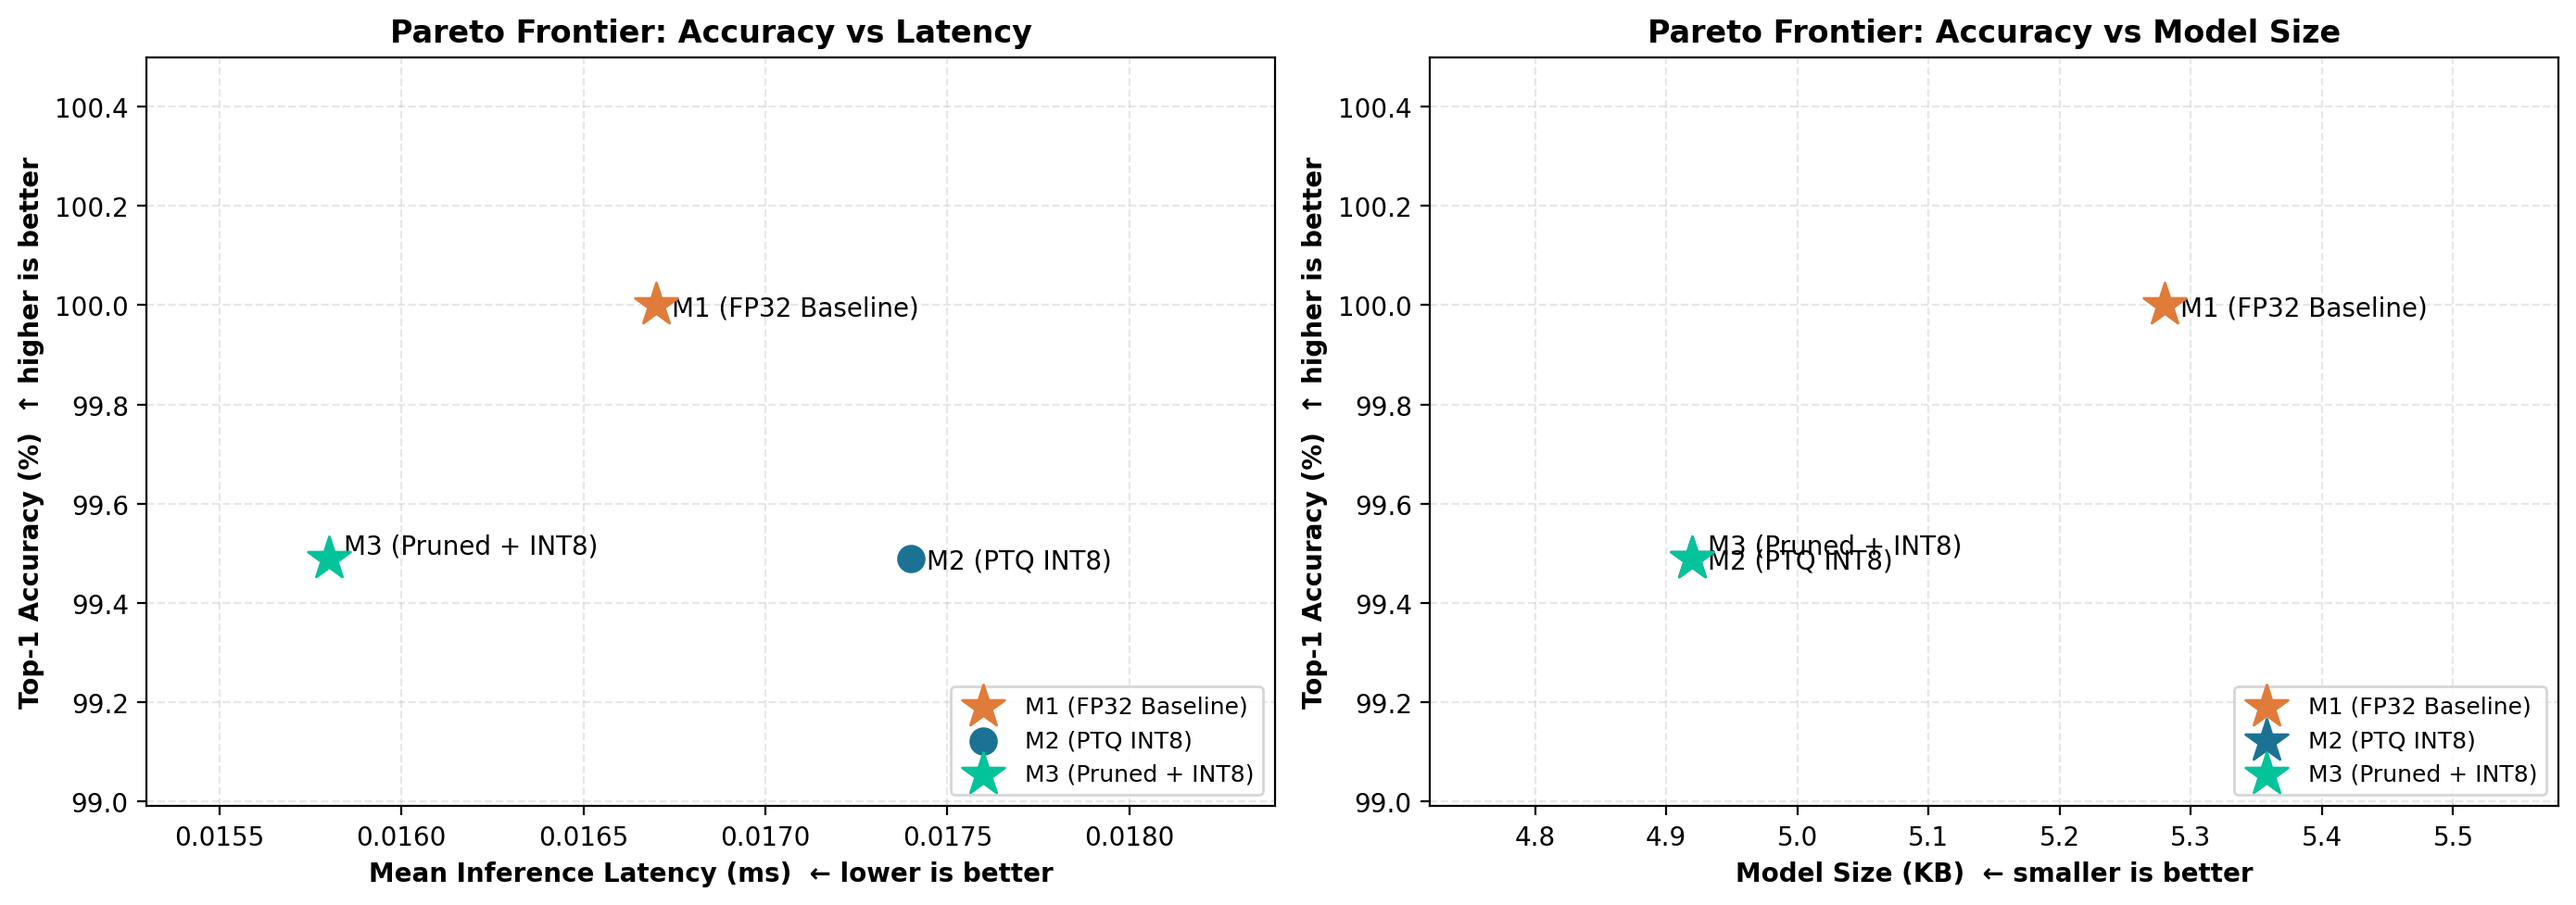
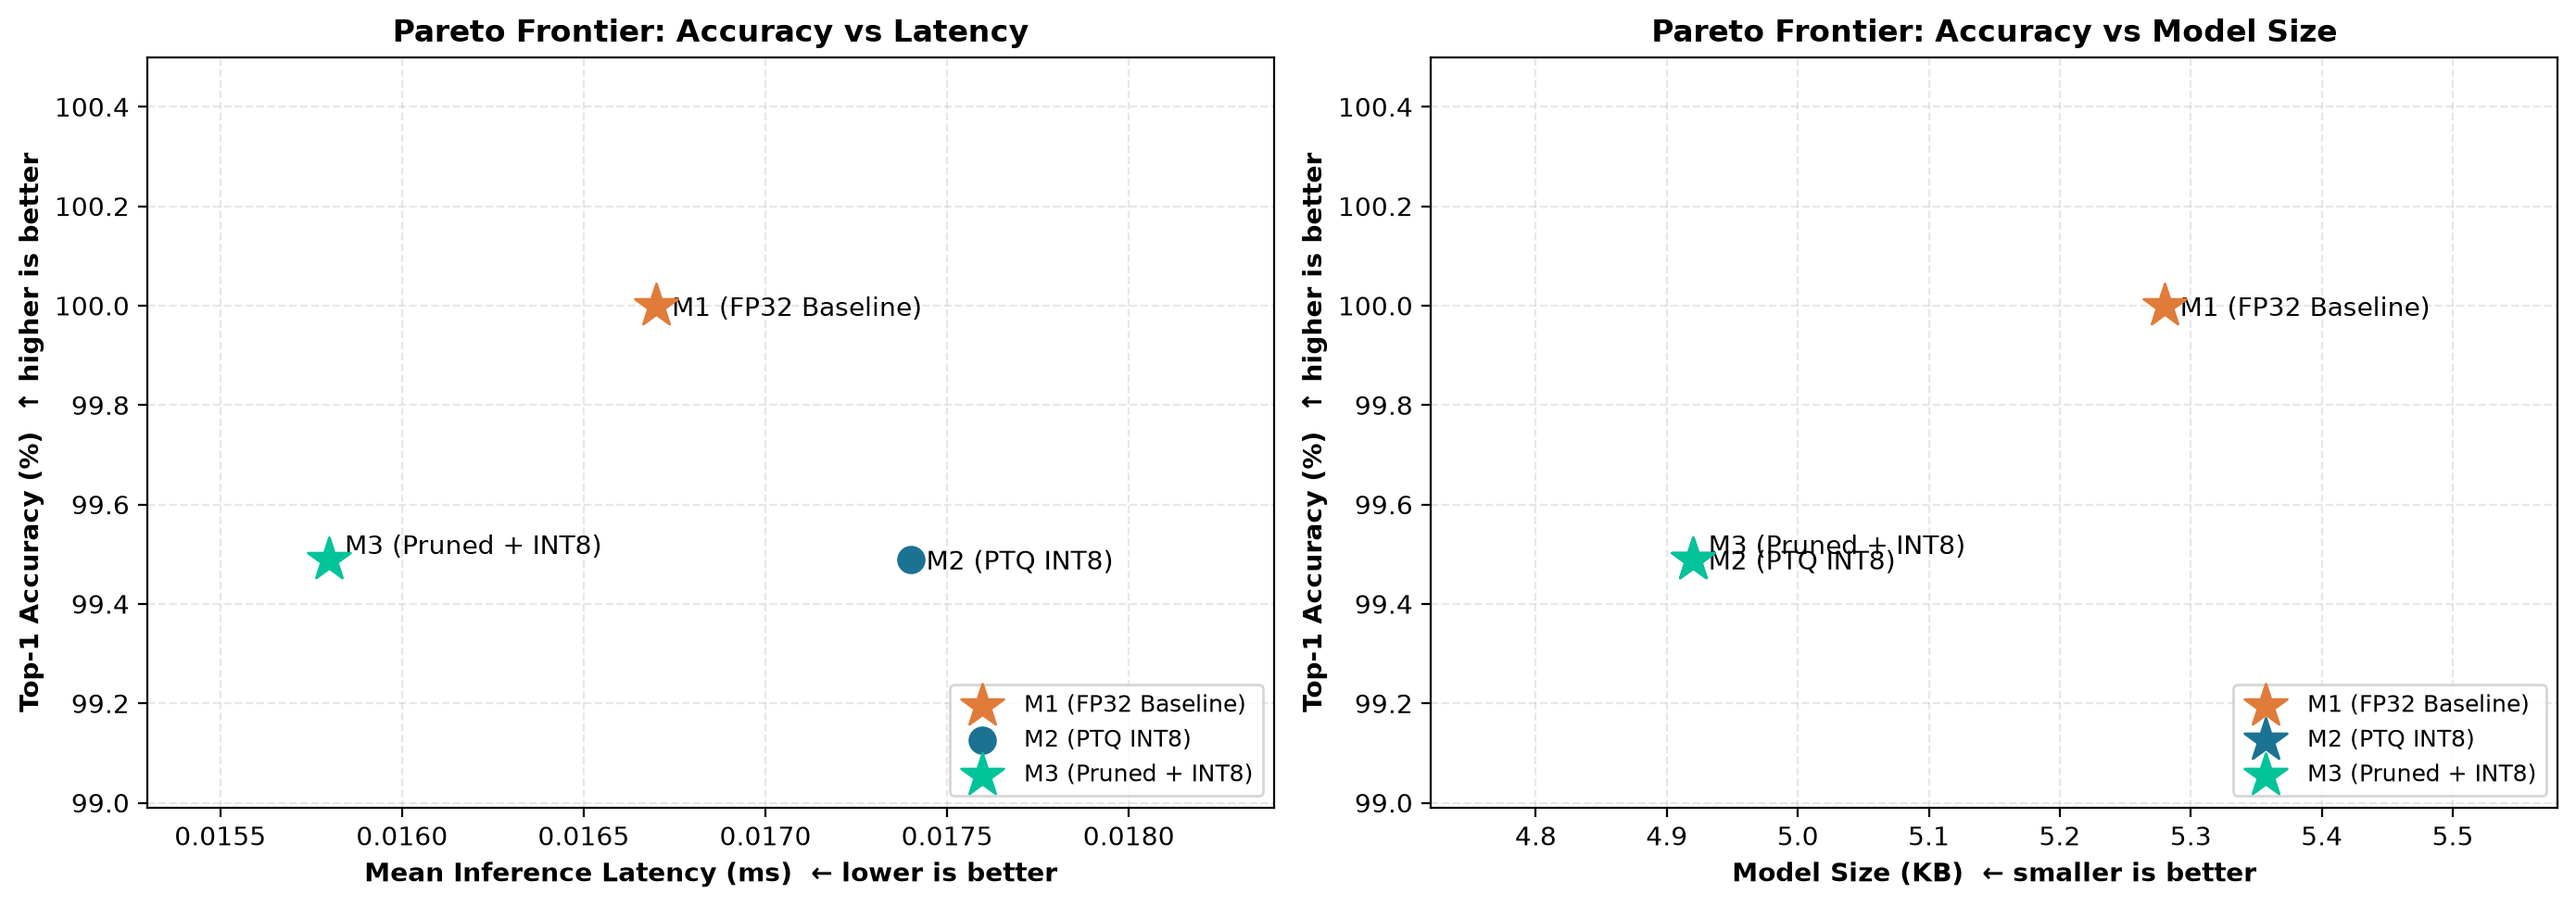
a

diff --git a/optimization/norm_experiment.py b/optimization/norm_experiment.py
@@ -1,0 +1,56 @@
+import numpy as np
+import tensorflow as tf
+import os
+
+# --- Paths ---
+BASE_DIR = os.path.dirname(os.path.dirname(os.path.abspath(__file__)))
+MODEL_PATH = os.path.join(BASE_DIR, 'inference', 'anomaly_model.tflite')
+STATS_PATH = os.path.join(BASE_DIR, 'inference', 'training_stats.npy')
+TRAIN_DIR = os.path.join(BASE_DIR, 'training')
+
+# --- Load Data & Stats ---
+data_0 = np.loadtxt(os.path.join(TRAIN_DIR, 'dataset_class_0.csv'), delimiter=',')
+data_1 = np.loadtxt(os.path.join(TRAIN_DIR, 'dataset_class_1.csv'), delimiter=',')
+data_2 = np.loadtxt(os.path.join(TRAIN_DIR, 'dataset_class_2.csv'), delimiter=',')
+
+dataset = np.vstack([data_0, data_1, data_2])
+X_raw = dataset[:, :6].astype(np.float32)
+y_true = dataset[:, 6].astype(np.int32)
+
+stats = np.load(STATS_PATH)
+mean, std = stats[0], stats[1]
+
+# --- Prepare the 3 Test Conditions ---
+# Condition 1: Correct baseline
+X_baseline = (X_raw - mean) / std
+
+# Condition 2: Shifted by +3 Sigma
+X_plus_3 = (X_raw - (mean + (3 * std))) / std
+
+# Condition 3: Shifted by -3 Sigma
+X_minus_3 = (X_raw - (mean - (3 * std))) / std
+
+# --- Evaluation Function ---
+def evaluate_tflite(X_test, condition_name):
+    interpreter = tf.lite.Interpreter(model_path=MODEL_PATH)
+    interpreter.allocate_tensors()
+    inp_det = interpreter.get_input_details()[0]
+    out_det = interpreter.get_output_details()[0]
+    
+    correct = 0
+    for i in range(len(X_test)):
+        interpreter.set_tensor(inp_det['index'], [X_test[i]])
+        interpreter.invoke()
+        pred = np.argmax(interpreter.get_tensor(out_det['index'])[0])
+        if pred == y_true[i]:
+            correct += 1
+            
+    accuracy = (correct / len(X_test)) * 100
+    print(f"{condition_name}: {accuracy:.2f}%")
+
+# --- Run the Experiment ---
+print("--- 2.3 Normalisation Experiment Results ---")
+evaluate_tflite(X_baseline.astype(np.float32), "1. Correct training_stats.npy")
+evaluate_tflite(X_plus_3.astype(np.float32),   "2. Stats shifted by +3σ      ")
+evaluate_tflite(X_minus_3.astype(np.float32),  "3. Stats shifted by -3σ      ")
+print("--------------------------------------------")
